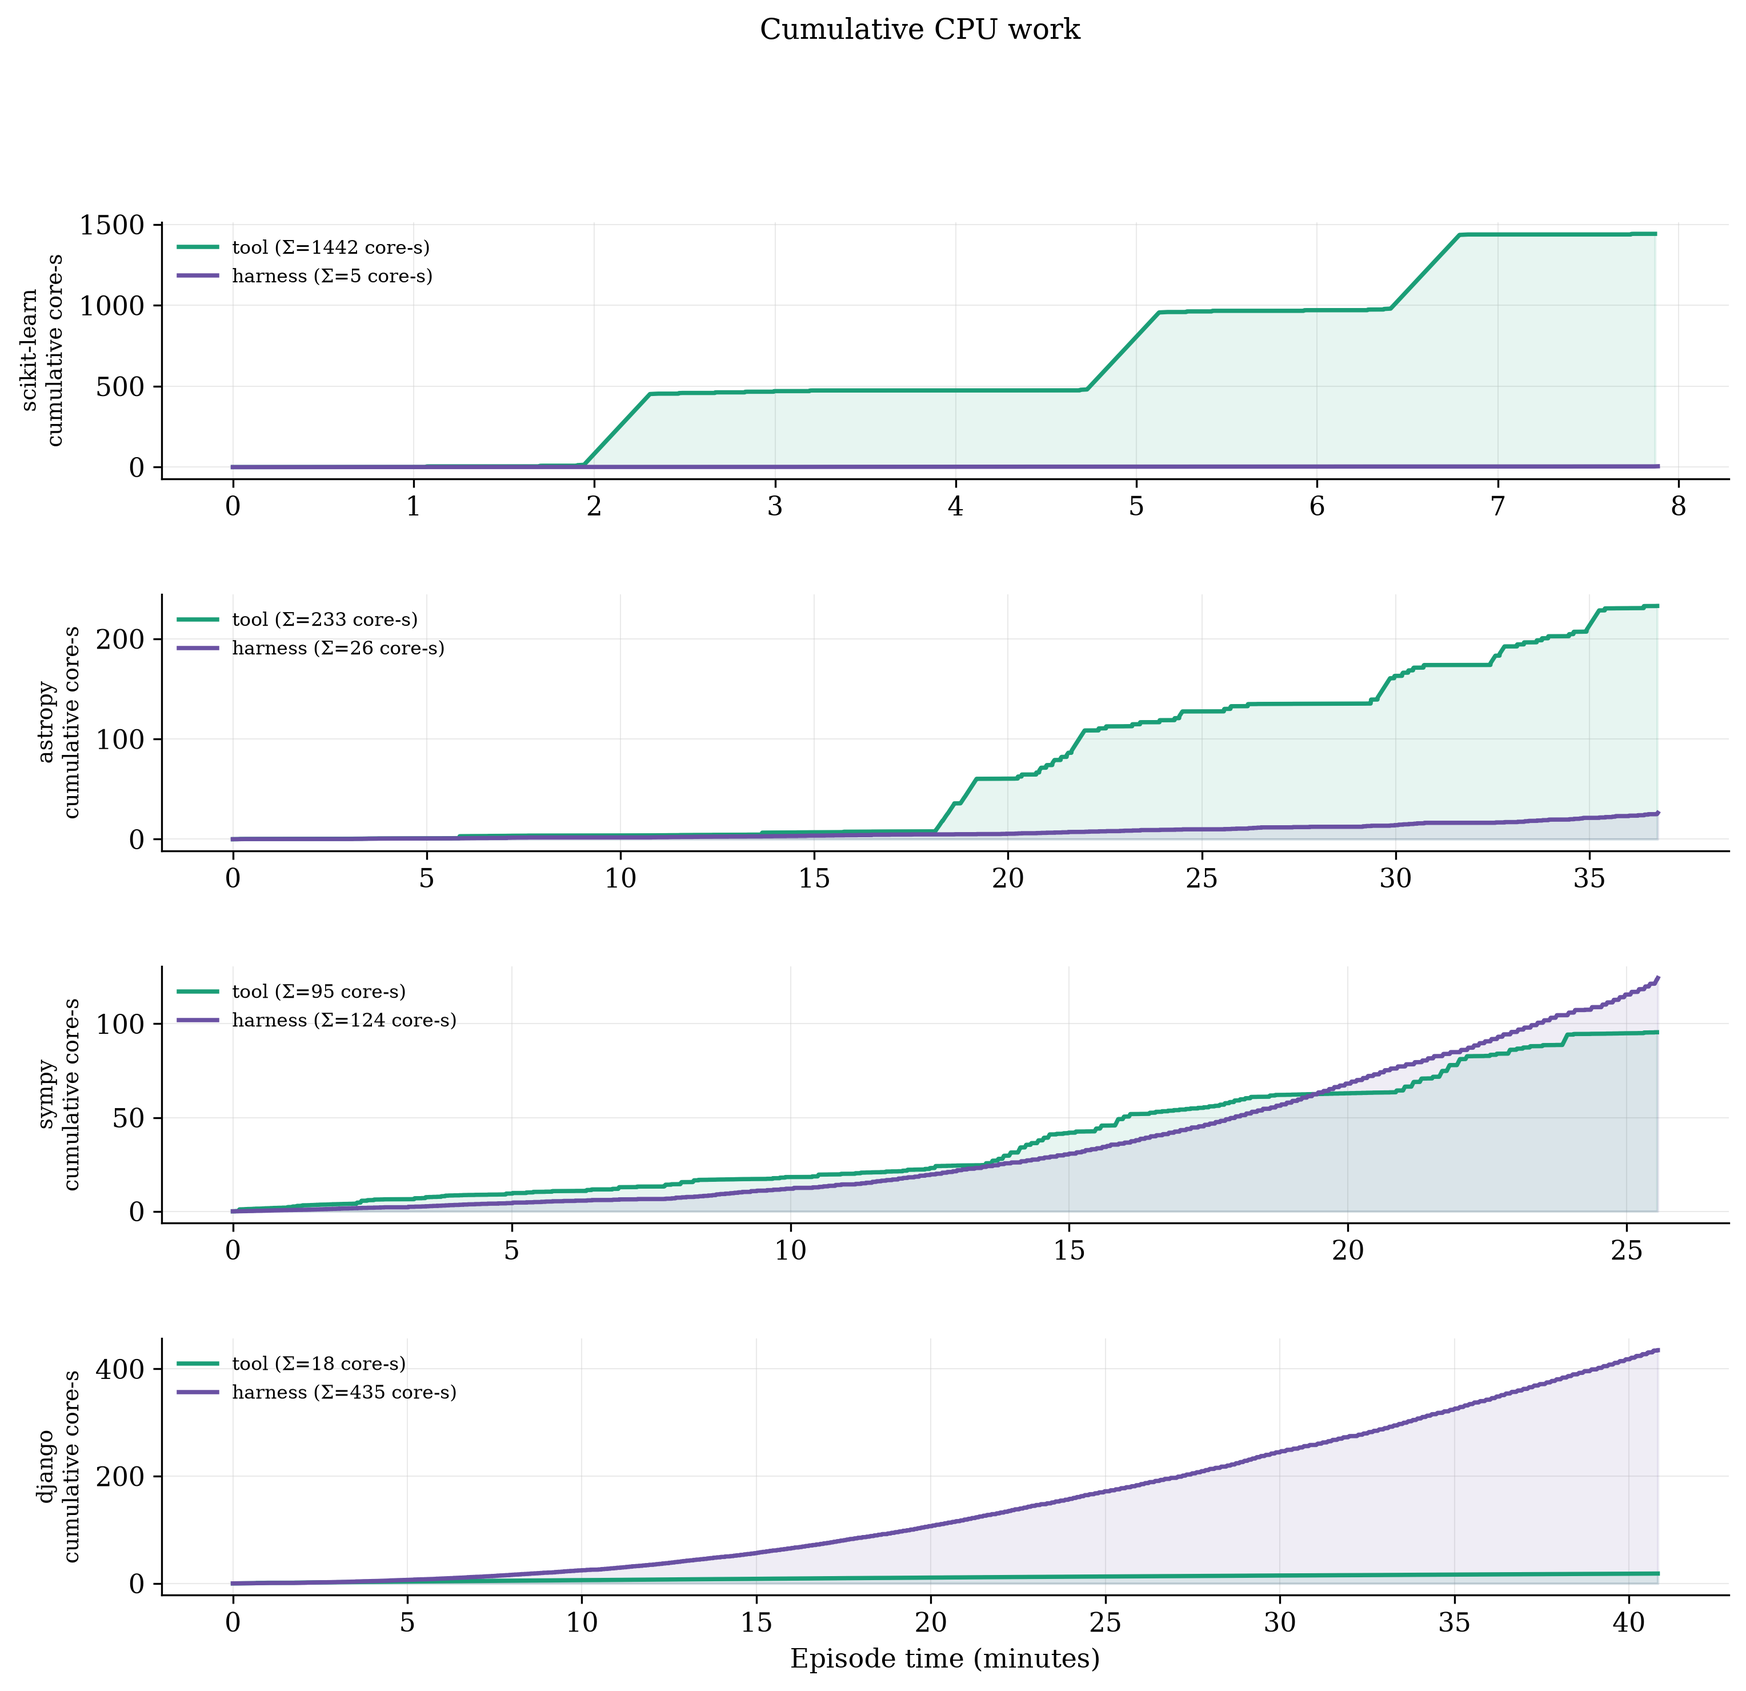
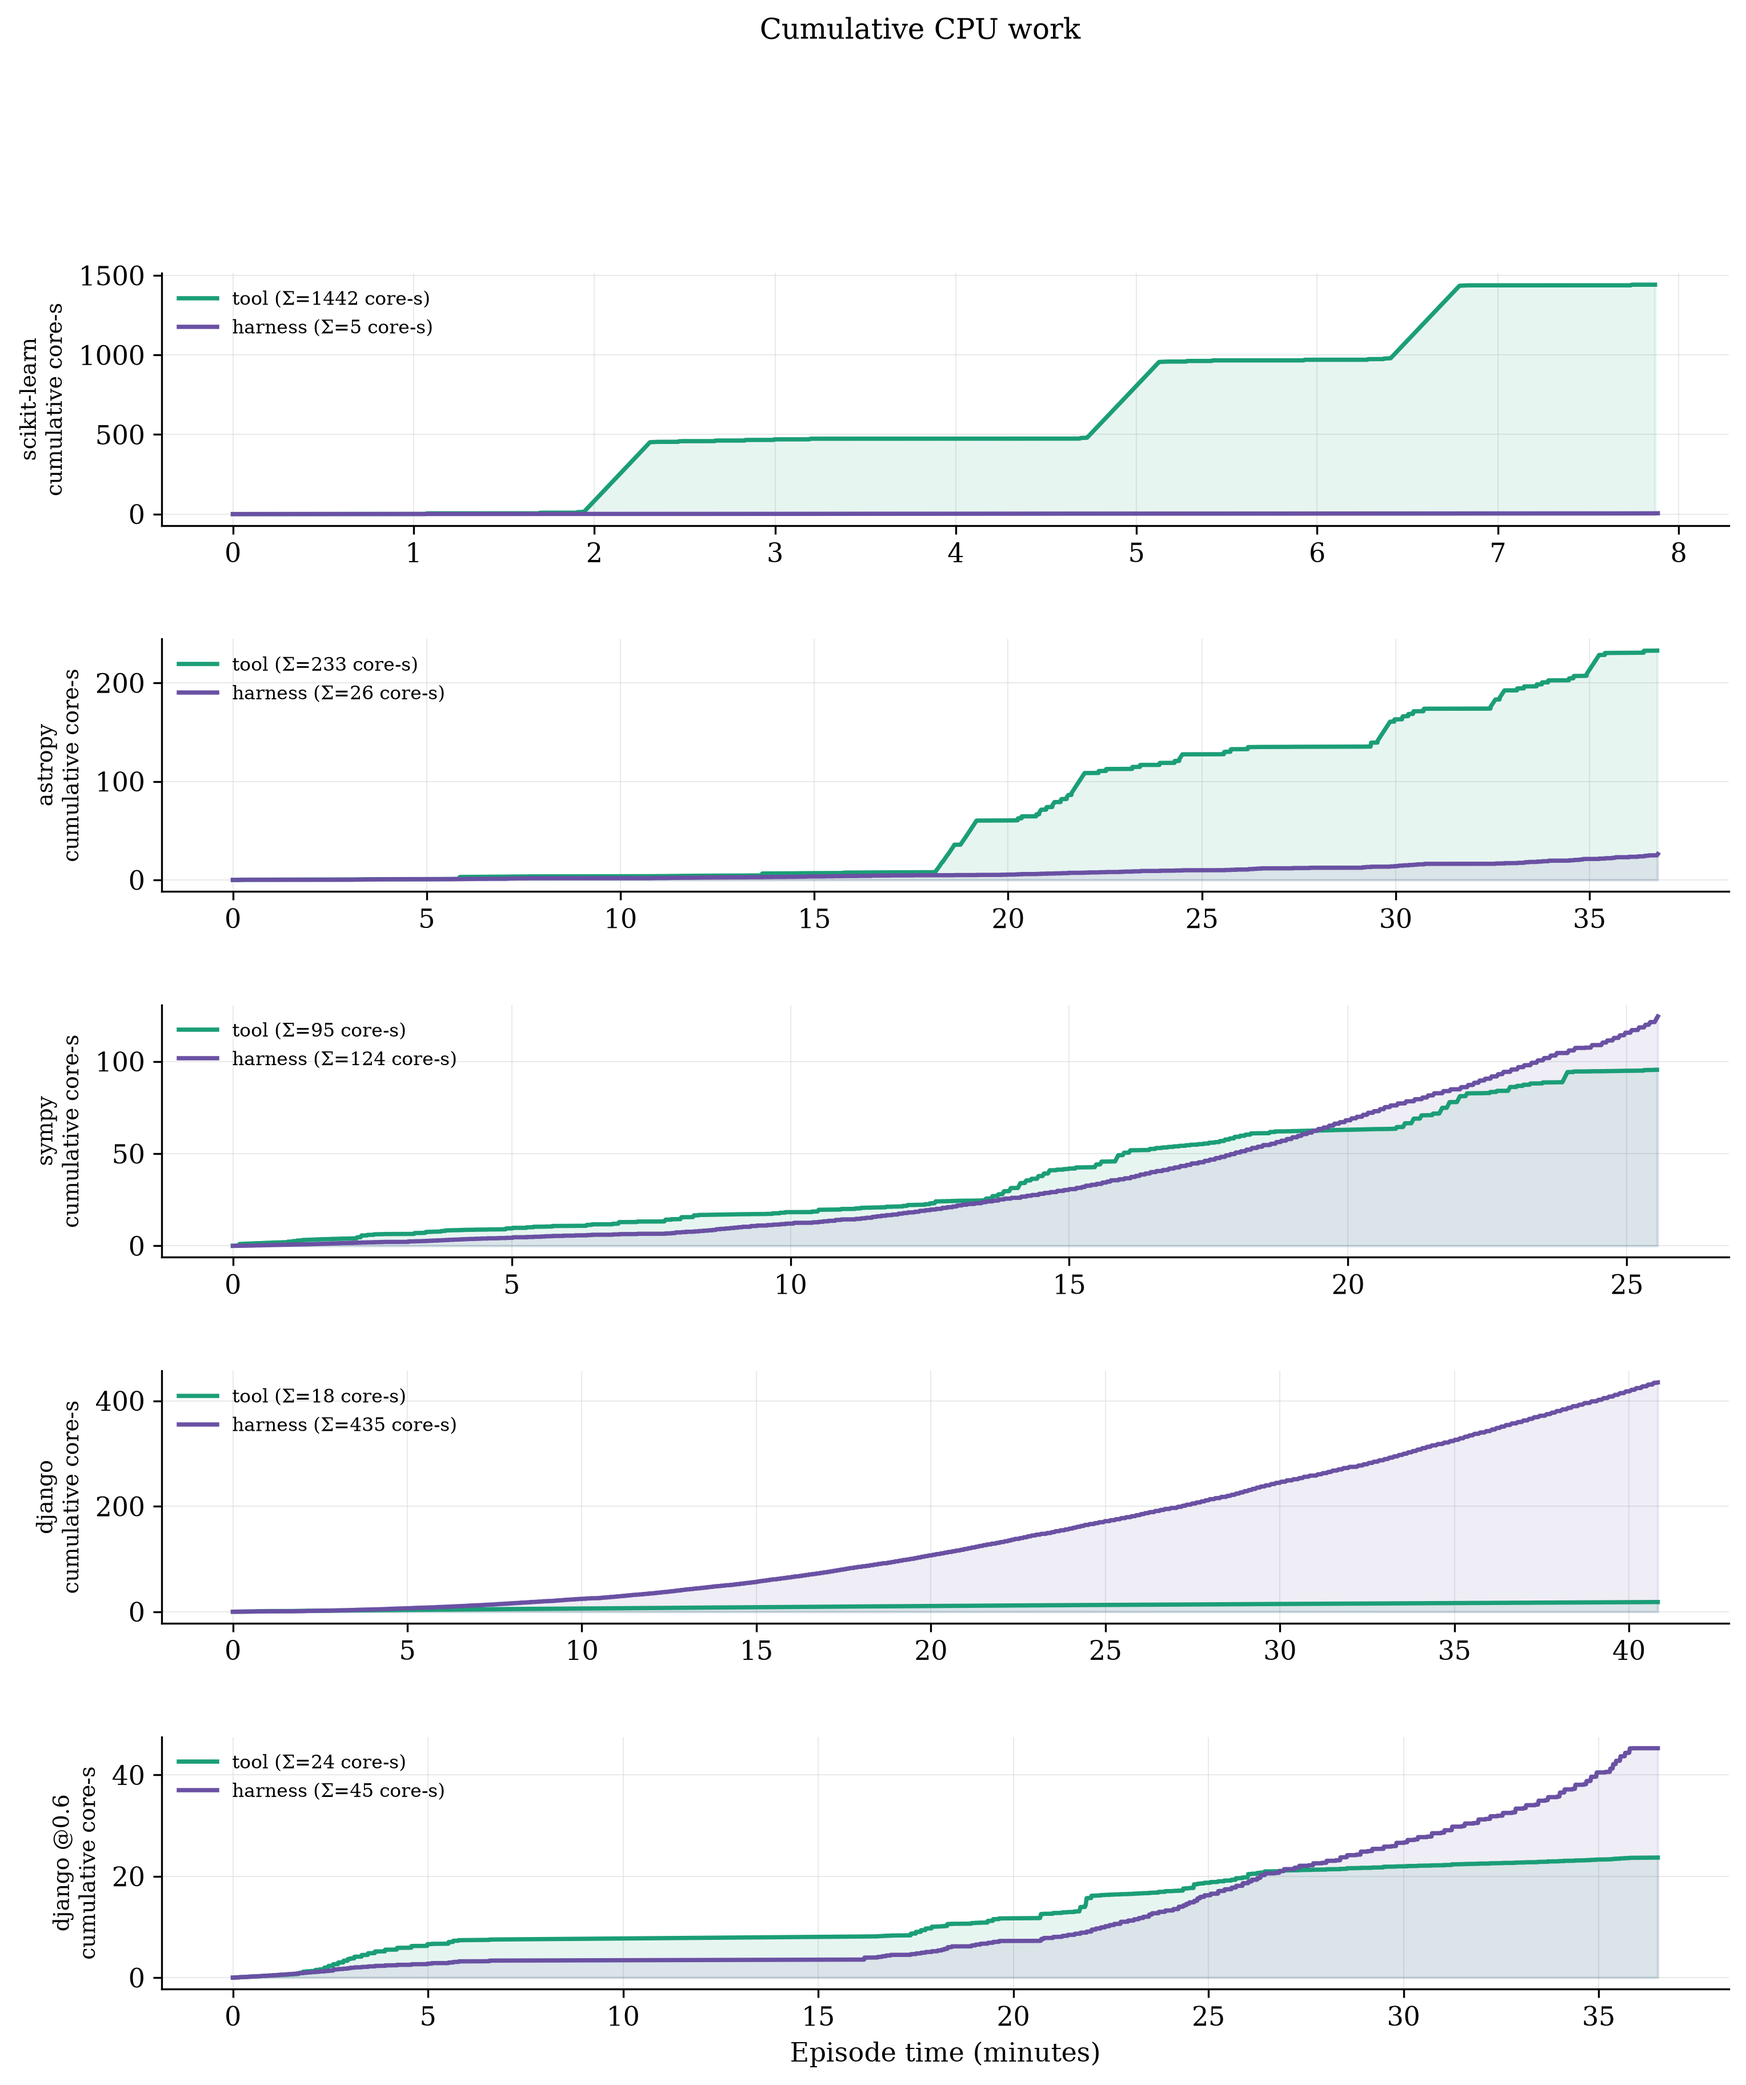
docs: add django temperature-0.6 experiment analysis and refresh superseded_40min figures

diff --git a/analysis.md b/analysis.md
@@ -186,6 +186,42 @@ This directly answers the acceptance criterion ("as long as the successful runs 
 share a similar distribution pattern, it's fine"): **they do — and at the microarchitecture
 level the distributions are the tightest of all.**
 
+## Part 5 — The django experiment: two episodes at temperature 0.6 (deck slide 17)
+
+The follow-up my mentor asked for: since django looped in every temp-0.0 attempt, run it twice
+more at temperature 0.6 (with the loop guard armed, N = 12) and see whether it can solve the
+task. Method: same kit, same isolation (ISO-PROOF quiet at 0.7 %), data banked under a separate
+`glm-t06` config so the temp-0.0 evidence is untouched; temperature 0.6 verified in each
+episode's recorded metadata. Figures on deck slides 2–5 and 16 now carry a fifth
+"django @0.6" column (audit: ALL MATCH).
+
+**What happened:**
+
+- **Run 1 (36.5 min, 160 turns).** Temperature 0.6 did what it is supposed to do: ~126 turns
+  of genuinely varied work — **64 heavy tool bursts** versus 4 in the temp-0 loops — and only
+  78 core-seconds total (the temp-0 loops burned 486–743). The agent finished its work and
+  tried to **submit 29 times**. Every attempt bounced with the same error: the harness's
+  submit tool (`review_on_submit_m/bin/submit`) crashes with a **Python SyntaxError** inside
+  this task's container — the tool uses modern f-string syntax, and django-10097's ancient
+  testbed image cannot parse it. The 12th identical bounce tripped the loop guard.
+- **Run 2 (~18 min, 160 turns).** A classic work-loop (repeated `git diff-tree` inspection),
+  caught by the guard — django remains genuinely loop-prone even at 0.6; the guard turned a
+  40-minute burn into an 18-minute one.
+
+**The answer to "can it solve django at higher temperature": no — and the reason is new.**
+django-10097 is unsolvable in this harness configuration at *any* temperature, because no
+patch can ever be produced: the submission mechanism itself is broken in this task's
+environment. The failure is **two-layered**: greedy-decode loops (layer 1, fixed by 0.6 +
+guard) had masked an environment/tooling incompatibility (layer 2) that only became visible
+once the agent survived long enough to reach submission. Neither campaign could have seen
+layer 2 before — every temp-0.0 episode died in a work-loop first.
+
+Notes for precision: "solve" here means "submit a patch" — formal SWE-bench resolution would
+additionally require the SWE-bench evaluation harness, which this kit does not run. The
+harness TMA of both 0.6 episodes is the same constant bar as the other 24 (retiring ≈ 45,
+frontend ≈ 22, bad-spec ≈ 8, backend ≈ 25) — one more confirmation that the agent program's
+microarchitecture profile is independent of task, temperature, and outcome.
+
 ## The findings
 
 ### 1. The computer mostly waits — in every single episode
@@ -255,9 +291,13 @@ conversation to the model). Same disease, different symptom — and a good demon
 looped episodes must not be presented as a task's profile.
 
 Also worth noting: temperature 0.0 is *supposed* to be deterministic, but over a live API it
-isn't — his three django attempts ran 304/414/443 turns under identical settings. The known fix
-(used in the later certified campaign) is temperature 0.6 plus a loop guard; django is the
-clearest candidate for such a re-run.
+isn't — his three django attempts ran 304/414/443 turns under identical settings.
+
+**Update (the re-run happened — see Part 5):** two fresh django episodes at temperature 0.6
+confirmed the loops are only half the story. One episode escaped the work-loops entirely, did
+real varied work, reached submission — and discovered that the harness's submit tool crashes
+(SyntaxError) inside django-10097's ancient container. So this task cannot produce a patch in
+this setup at any temperature; the greedy-decode loops had been hiding an environment bug.
 
 ## The temperature question
 
@@ -347,8 +387,12 @@ gate backstop it, so 0.6 only needs to make loops rare, not impossible.
 
 ## Caveats
 
-- My astropy has only one clean episode (and it's a long one); django has none anywhere.
-  A temp-0.6 re-run of those two tasks would close both gaps.
+- My astropy has only one clean episode (and it's a long one). A temp-0.6 astropy re-run
+  would give it a dispersion band.
+- django has no *solved* episode anywhere — and Part 5 shows it cannot have one in this
+  harness configuration (broken submit tool in its container), independent of temperature.
+  A genuine django profile would need either a tool fix (patch `review_on_submit_m` for old
+  Python) or a different django instance with a modern testbed image.
 - "Looped" is classified by a simple rule (≥ 8 of the last 12 actions identical); the kit's
   validator gate E7 is the formal version.
 - The harness breakdown comes from statistical profiling samples — reliable as percentages,
